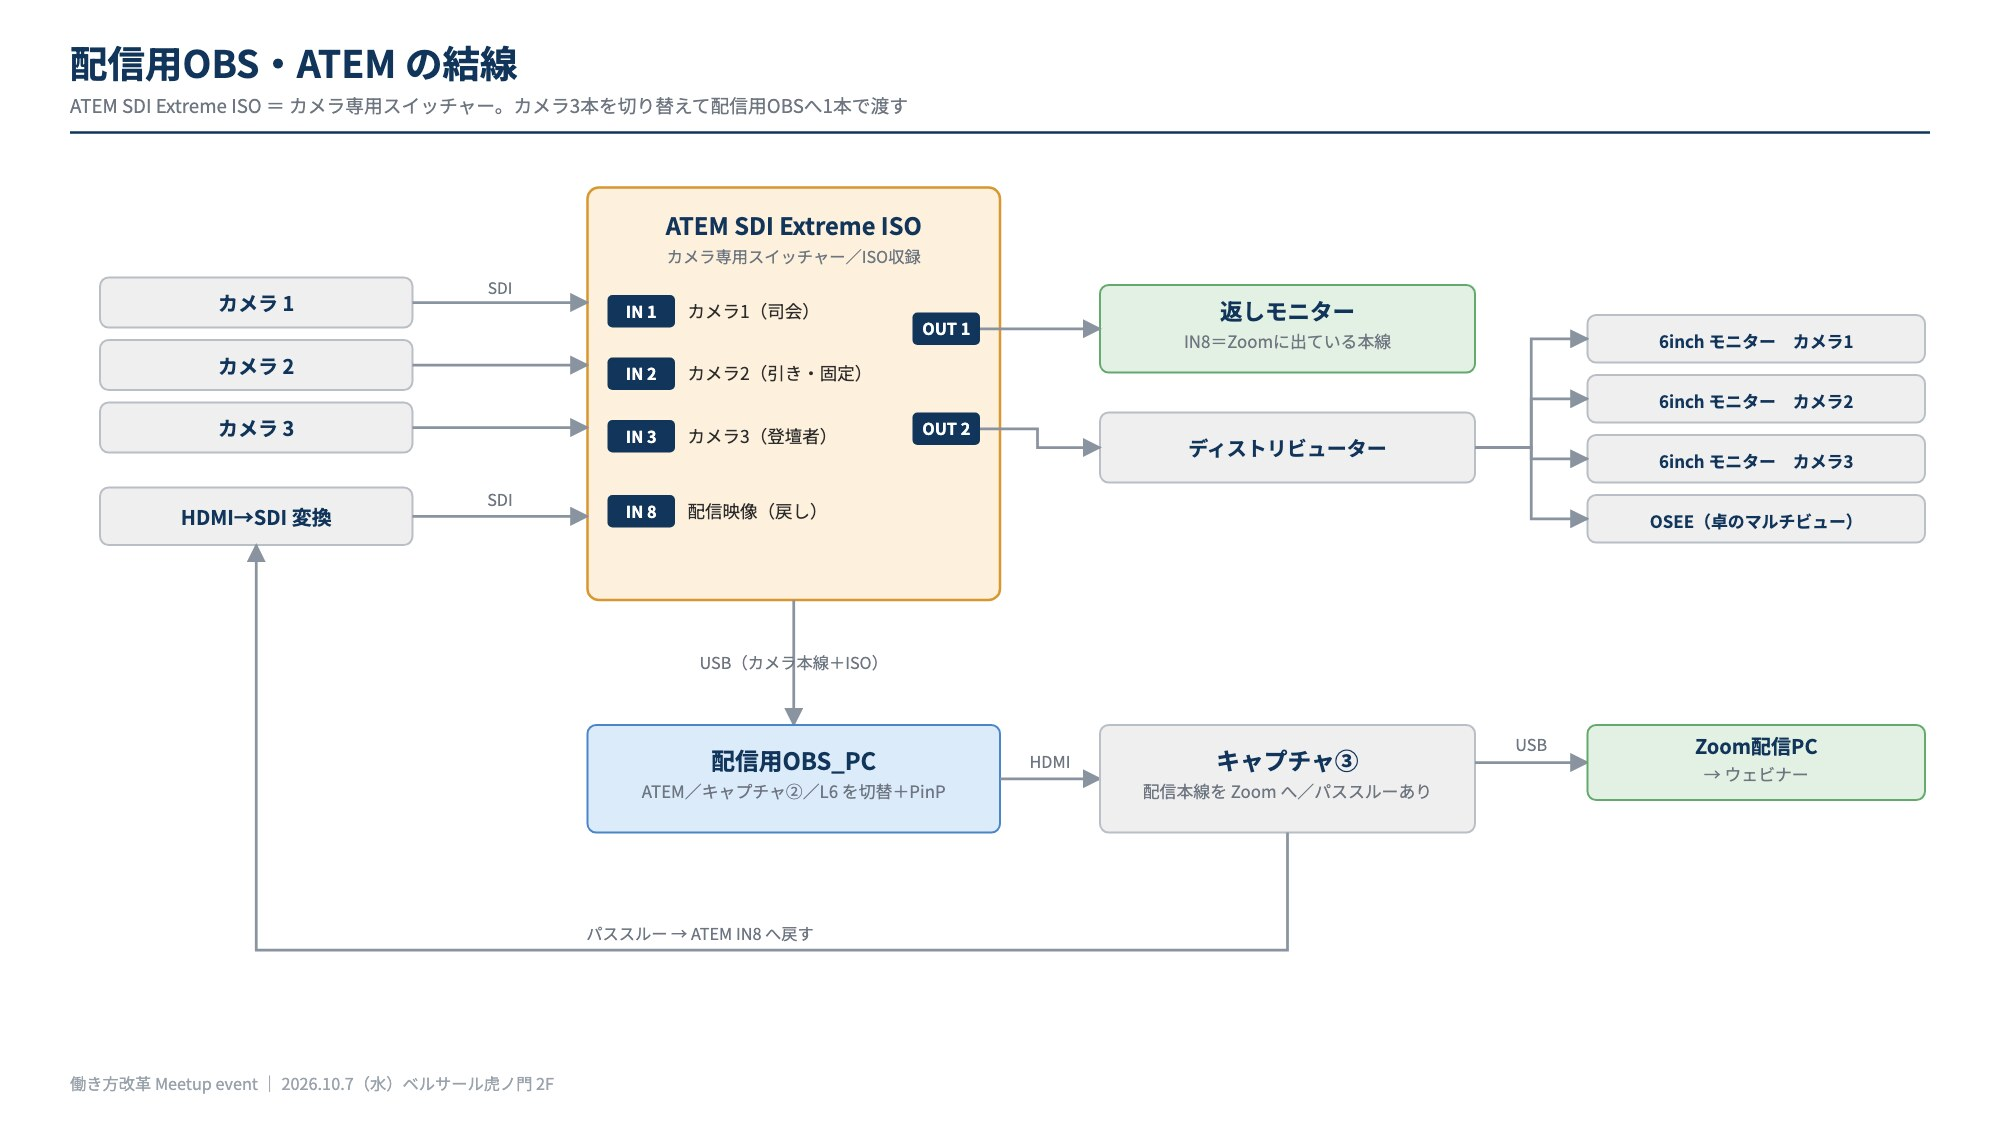
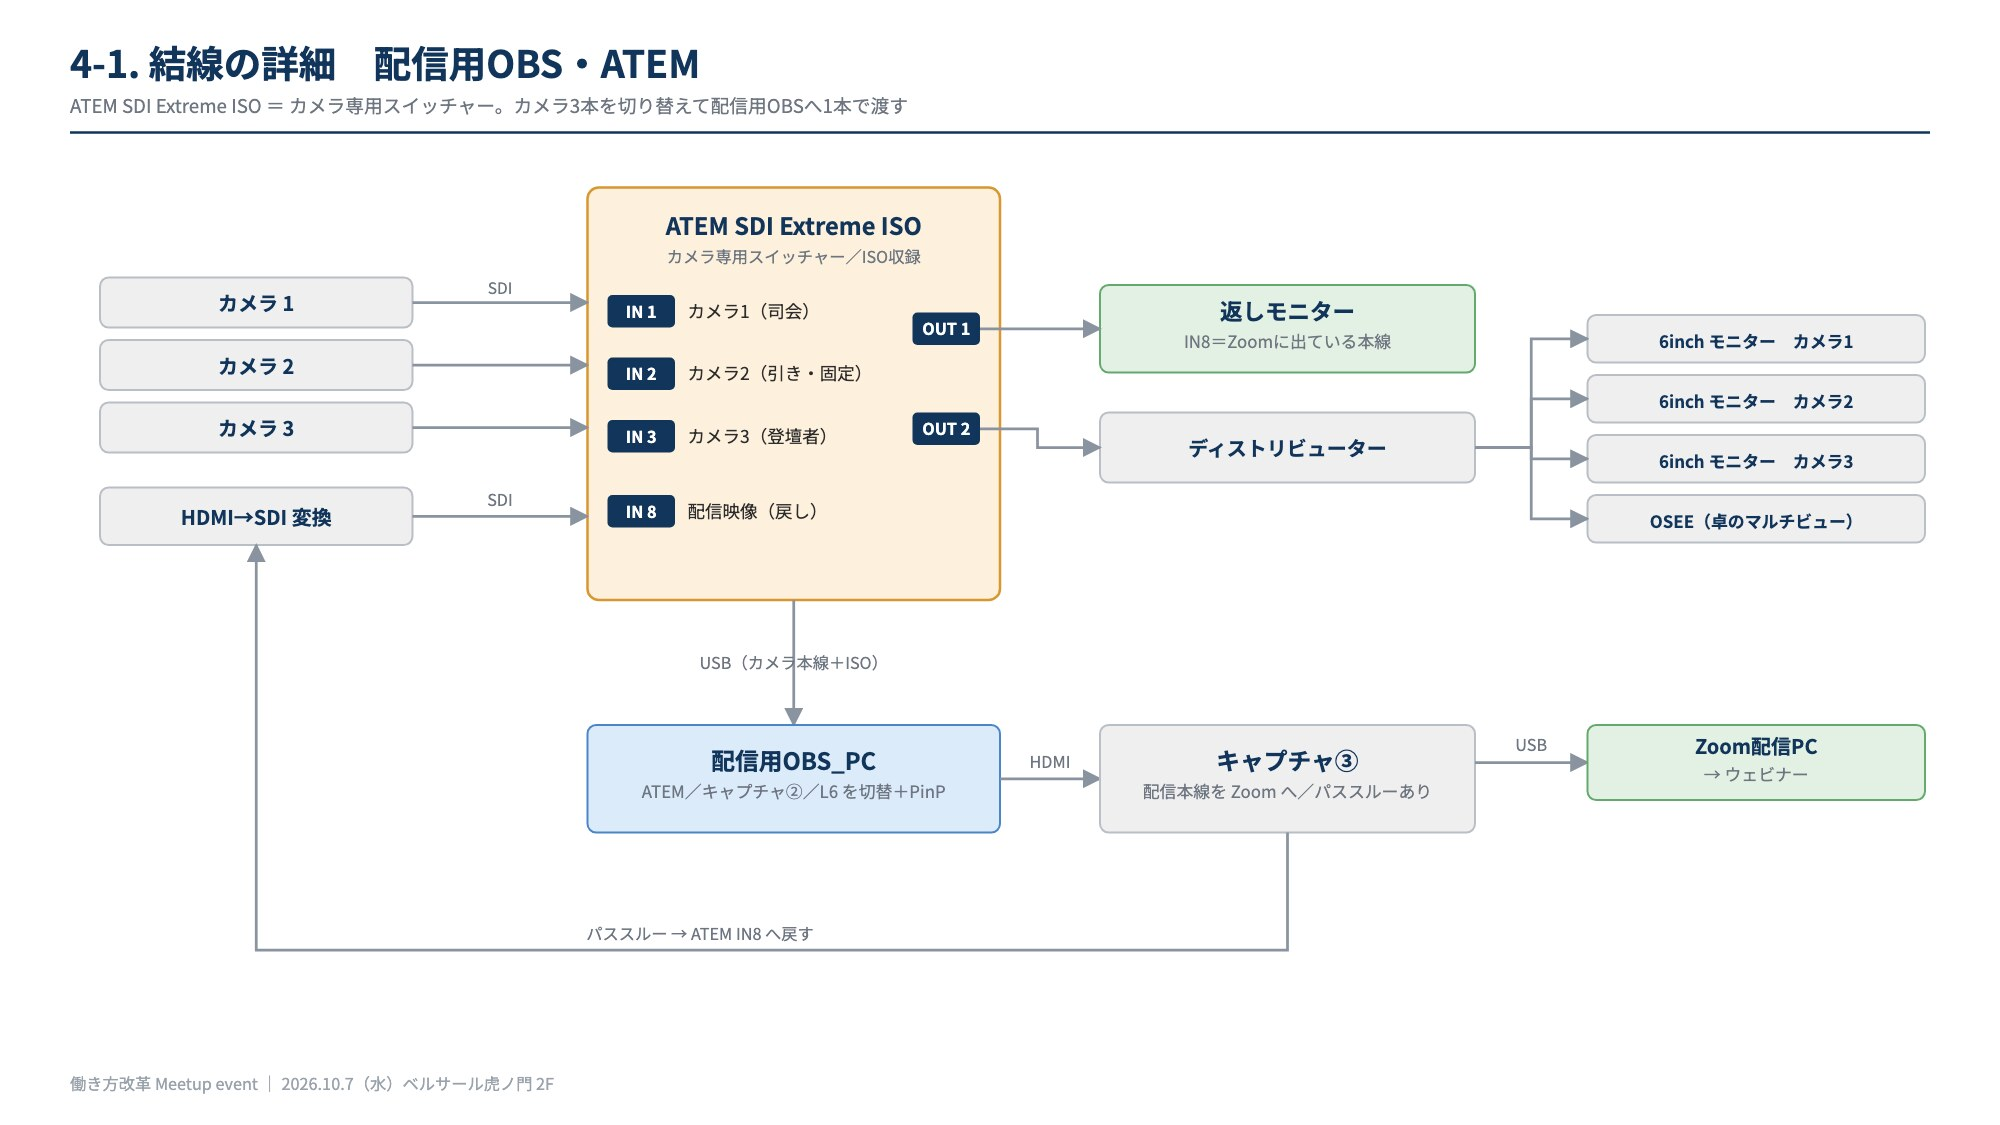
資料が画面に無いときは目次ボタンにページ番号を出さない

Changed region(s): [[0.031, 0.0311, 0.372, 0.0933]]

diff --git a/index.html b/index.html
@@ -186,6 +186,7 @@ footer .wrap{position:relative;z-index:1;padding-block:26px 44px;font-size:12px;
 .fab .cur b{font-family:var(--f);font-size:10px;opacity:.8}
 .fab .cur u{flex:none;align-self:center;width:1px;height:8px;text-decoration:none;
   background:rgba(255,255,255,.45)}
+.fab .cur[hidden]{display:none}
 .fab .cur{display:inline-flex;align-items:baseline;gap:3px;font-family:var(--n);font-size:11px;background:rgba(255,255,255,.24);border-radius:100px;padding:2px 9px}
 .sheet[hidden],.lb[hidden]{display:none!important}
 .sheet{position:fixed;inset:0;z-index:70;display:flex;align-items:flex-end;justify-content:flex-end}
@@ -367,7 +368,7 @@ footer .wrap{position:relative;z-index:1;padding-block:26px 44px;font-size:12px;
 </footer>
 
 <button class="top" id="top" type="button" aria-label="ページの先頭へ戻る" title="先頭へ戻る">↑</button>
-<button class="fab" id="fab" type="button" aria-expanded="false" aria-controls="sheet">目次<span class="cur" id="cur"><b>資料</b><u></u>02</span></button>
+<button class="fab" id="fab" type="button" aria-expanded="false" aria-controls="sheet">目次<span class="cur" id="cur" hidden></span></button>
 
 <div class="sheet" id="sheet" hidden role="dialog" aria-modal="true" aria-label="目次">
   <div class="bd" id="bd"></div>
@@ -447,12 +448,20 @@ if("IntersectionObserver" in window){
   var io=new IntersectionObserver(function(es){
     es.forEach(function(e){
       if(!e.isIntersecting)return;
-      var id=e.target.id.slice(1);cur.innerHTML=badge(id);
+      var id=e.target.id.slice(1);cur.innerHTML=badge(id);syncCur();
       links.forEach(function(a){a.setAttribute("aria-current",a.dataset.p===id?"true":"false");});
     });
   },{rootMargin:"-45% 0px -50% 0px"});
   PAGES.forEach(function(p){io.observe(document.getElementById("p"+p[0]));});
 }
+// 資料の節が画面に無いあいだは、現在ページを表示しない（FVで「資料02」と出てしまうため）
+var docsSec=document.getElementById("docs");
+function syncCur(){
+  var r=docsSec.getBoundingClientRect();
+  cur.hidden = !(r.bottom > 70 && r.top < window.innerHeight * 0.55) || !cur.innerHTML;
+}
+window.addEventListener("scroll",syncCur,{passive:true});
+syncCur();
 
 var sheet=document.getElementById("sheet"),fab=document.getElementById("fab");
 function openSheet(){sheet.hidden=false;fab.setAttribute("aria-expanded","true");document.body.style.overflow="hidden";}
